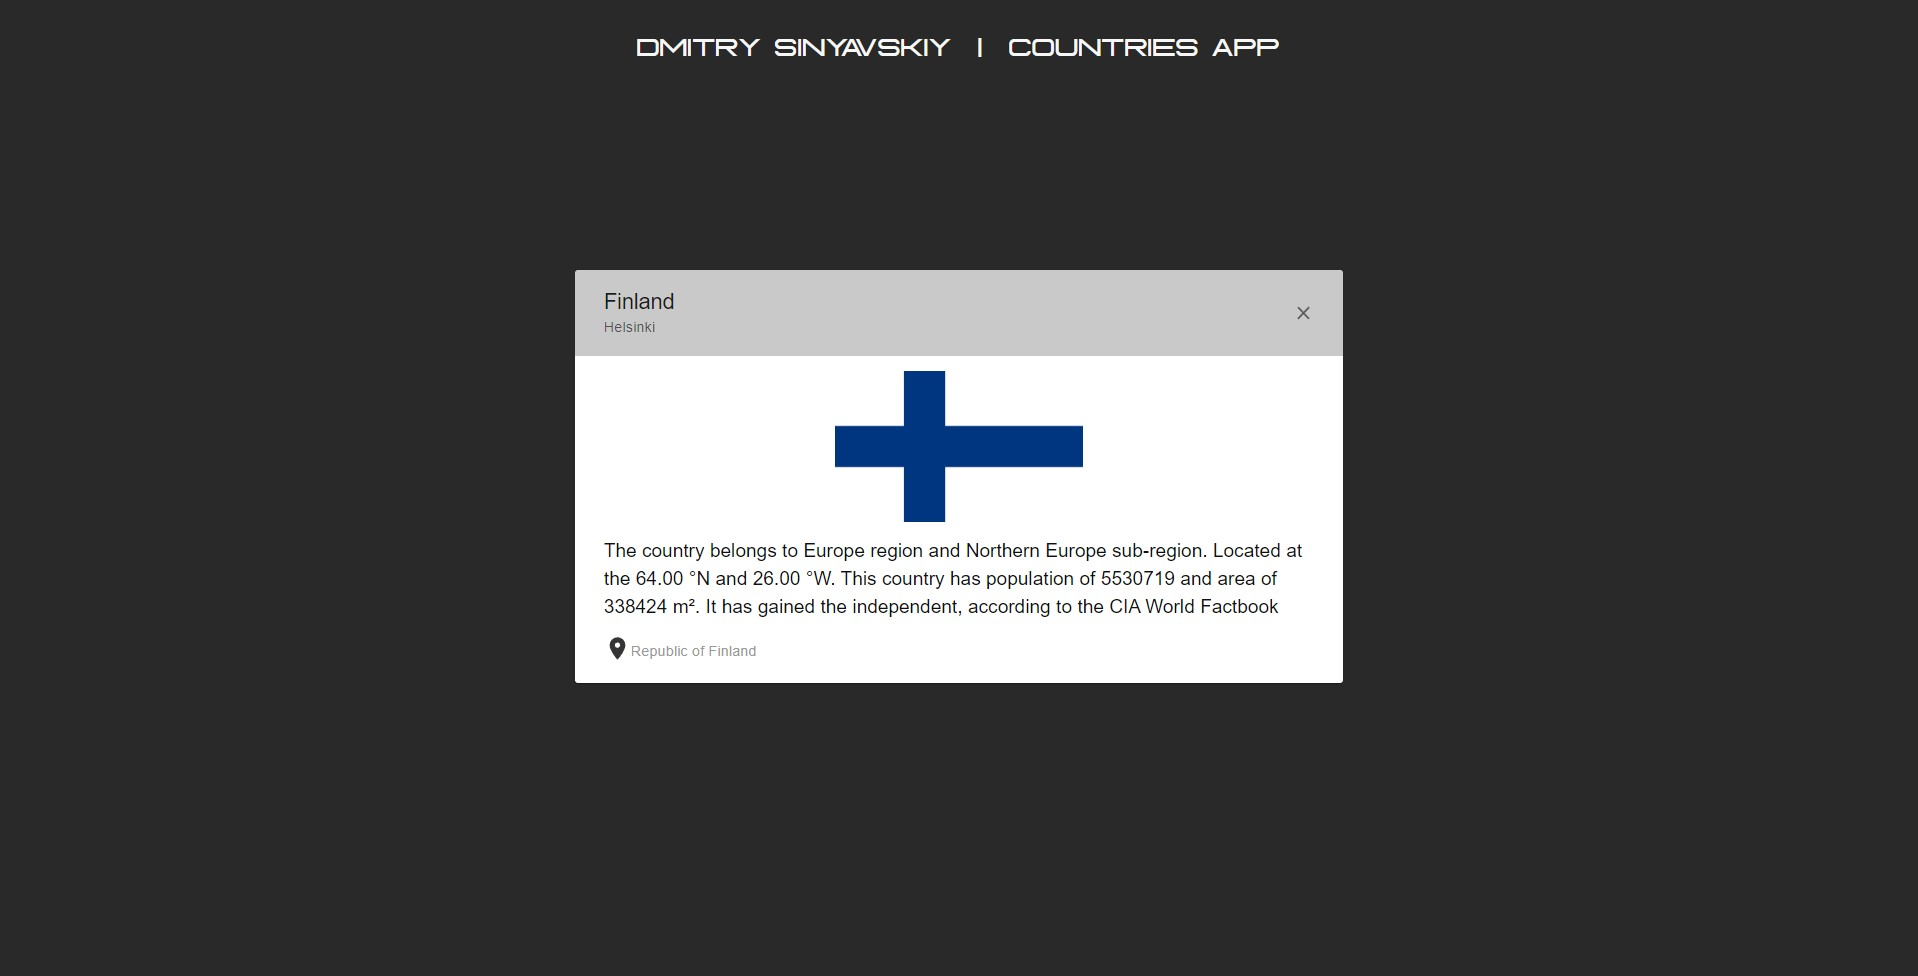
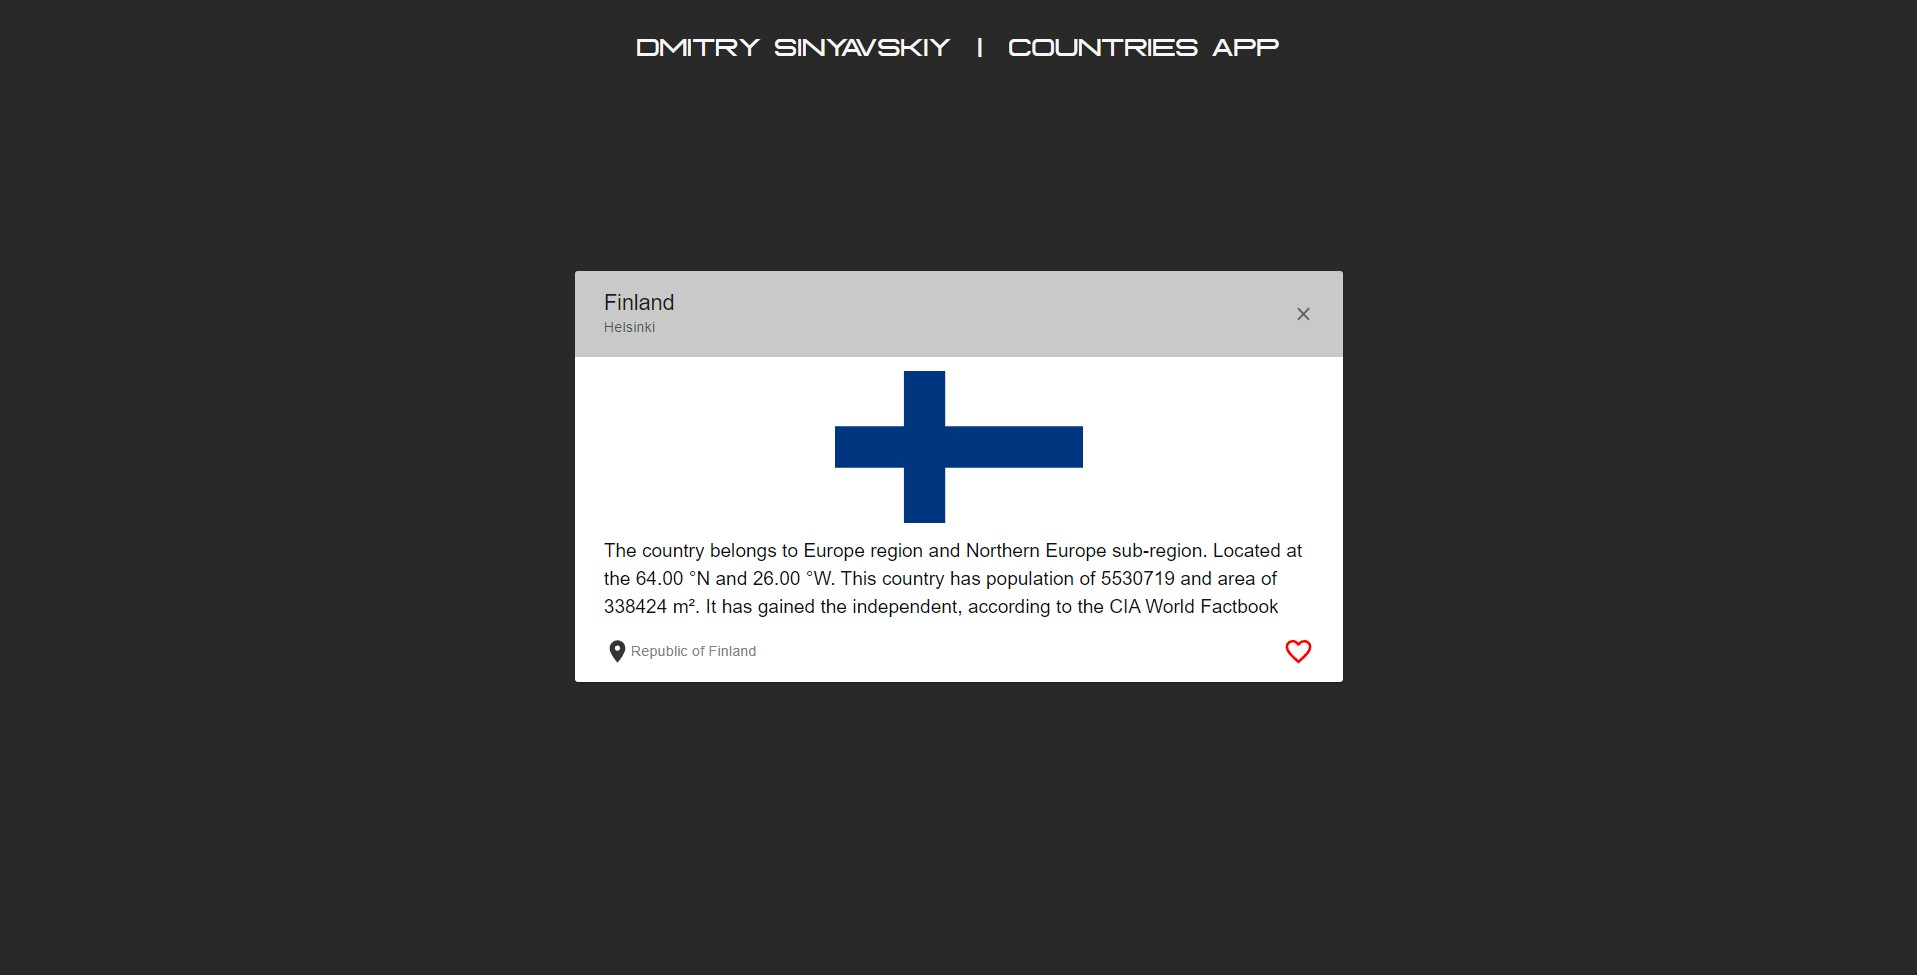
readme update

diff --git a/src/components/navBar/NavBar.tsx b/src/components/navBar/NavBar.tsx
@@ -86,7 +86,7 @@ const NavBar: React.FC<INavBar> = ({ search, setSearch, favPage }) => {
             endIcon={<LanguageIcon />}
             onClick={() => navigation('/')}
           >
-            Main
+            Main Page
           </Button>
           <Button
             variant='outlined'

diff --git a/README.md b/README.md
@@ -1,19 +1,20 @@
 # Dmitry Sinyavskiy Country Application
 
+### https://dmitry-sinyavskiy-countries-app.netlify.app/
+
 ## Built with
 
 <!-- ICONS found at: ht<rtps://github.com/devicons/devicon/tree/master/icons -->
 <div> 
       <img src="https://raw.githubusercontent.com/devicons/devicon/master/icons/react/react-original-wordmark.svg" title="React" alt="React" width="50" height="50"/>&nbsp;
       <img src="https://raw.githubusercontent.com/devicons/devicon/master/icons/typescript/typescript-original.svg" title="TS" alt="TS" width="50" height="50"/>&nbsp;
-      <img src="https://raw.githubusercontent.com/devicons/devicon/master/icons/javascript/javascript-original.svg" title="JS" alt="JS" width="50" height="50"/>&nbsp;
       <img src="https://raw.githubusercontent.com/devicons/devicon/master/icons/materialui/materialui-original.svg" title="Materialui" alt="Materialui" width="50" height="50"/>&nbsp;
 </div>
 
 - React application is written in Typescript
 - The user interface is divided into pages that are routed through react-router-dom.
 - Materialui is used for styling
-- Tests are implemented with JavaScript language
+- Tests are implemented with Typescript language
 
 ## Installation
 
@@ -61,19 +62,11 @@ npm run preview
 
 ![Main Page](screenshots/mainPage_1.jpg)
 
-- You can use the search field to search by country name
+- You can use the `search field` to search by country name
 
 ![Main Page search](screenshots/mainPage_search.jpg)
 
-- Select a country to see more information about it
-
-![Main Page select](screenshots/mainPage_select.jpg)
-
-- Press the map button to open a new google maps tab with the country location
-
-![Main Page select](screenshots/countryPage_1.jpg)
-
-- You can sort countries by name, region, and population
+- You can `sort` countries by name, region, and population
 
 ![History page 1](screenshots/main_page_sort_1.jpg)
 
@@ -81,7 +74,23 @@ npm run preview
 
 ![History page 1](screenshots/main_page_sort_2.jpg)
 
-- By pressing on Logo you will be redirected to this GitHub repository
+- Press on country row to see more information about it
+
+![Main Page select](screenshots/mainPage_select.jpg)
+
+- Press the `map` button to open a new google maps tab with the country location
+
+- Press `like` button to save / remove country to Favorites page
+
+![Main Page select](screenshots/countryPage_1.jpg)
+
+- All your liked countries are saved in localStorage and can be found on Favorites tab
+
+![Main Page select](screenshots/favPage.jpg)
+
+- `Remove all` will clear your localStorage
+
+- By pressing on Logo it will open new tab with this GitHub repository
 
 ## Testing
 
